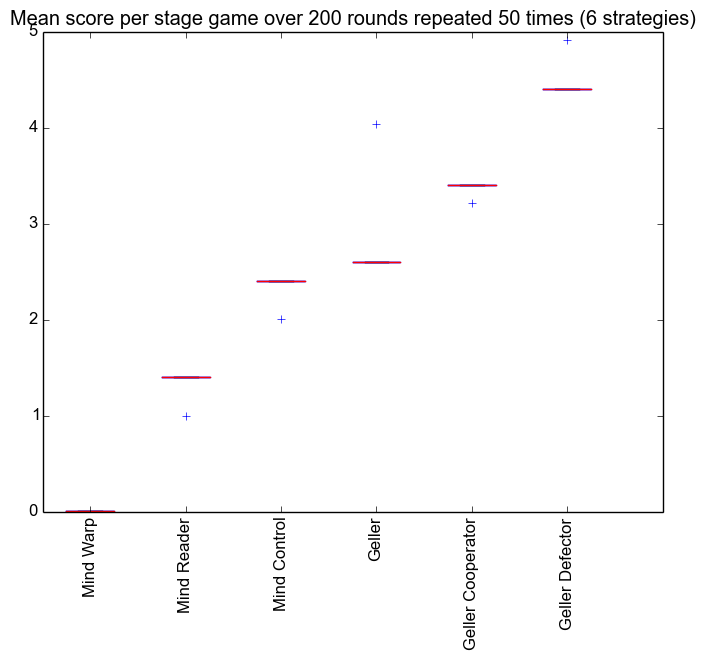
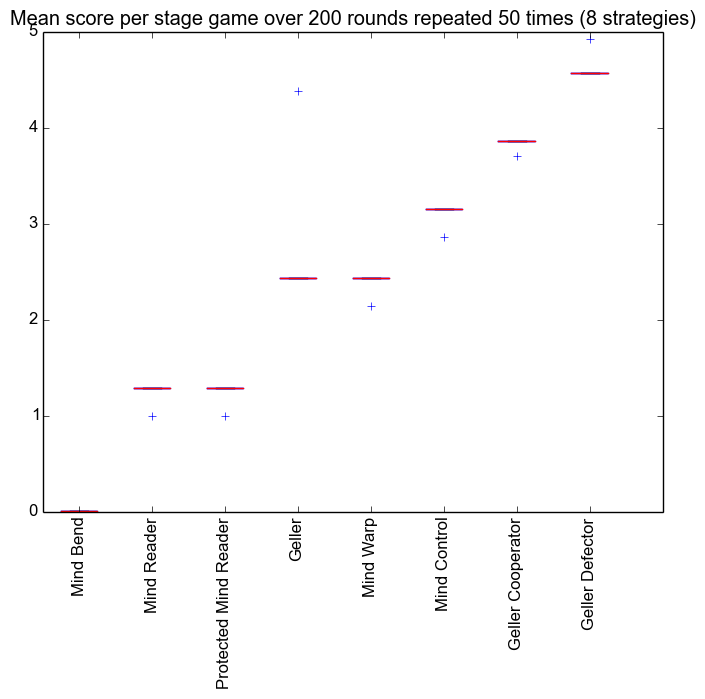
Introducing Mind Bender

diff --git a/axelrod/tests/test_mindcontrol.py b/axelrod/tests/test_mindcontrol.py
@@ -1,6 +1,5 @@
-"""
-Test for the mindcontrol strategy
-"""
+"""Tests for mind controllers and other wizards."""
+
 import unittest
 import axelrod
 
@@ -51,6 +50,10 @@ class TestMindControl(unittest.TestCase):
         P1.reset()
         self.assertEqual(P1.history, [])
 
-class TestMindWarp(unittest.TestCase):
+class TestMindWarp(TestMindControl):
 
     name = "Mind Warp"
+
+class TestMindBend(TestMindControl):
+
+    name = "Mind Bend"

diff --git a/axelrod/strategies/mindcontrol.py b/axelrod/strategies/mindcontrol.py
@@ -29,3 +29,12 @@ class MindWarp(Player):
     def strategy(self, opponent):
         opponent.strategy = lambda opponent: 'C'
         return 'D'
+
+class MindBend(MindWarp):
+    """A player that changes the opponent's strategy by modifying the internal dictionary."""
+
+    name = 'Mind Bend'
+
+    def strategy(self, opponent):
+        opponent.__dict__['strategy'] = lambda opponent: 'C'
+        return 'D'

diff --git a/axelrod/strategies/__init__.py b/axelrod/strategies/__init__.py
@@ -66,6 +66,7 @@ cheating_strategies = [
         GellerDefector,
         MindControl,
         MindWarp,
+        MindBend,
         MindReader,
         ProtectedMindReader,
         ]
